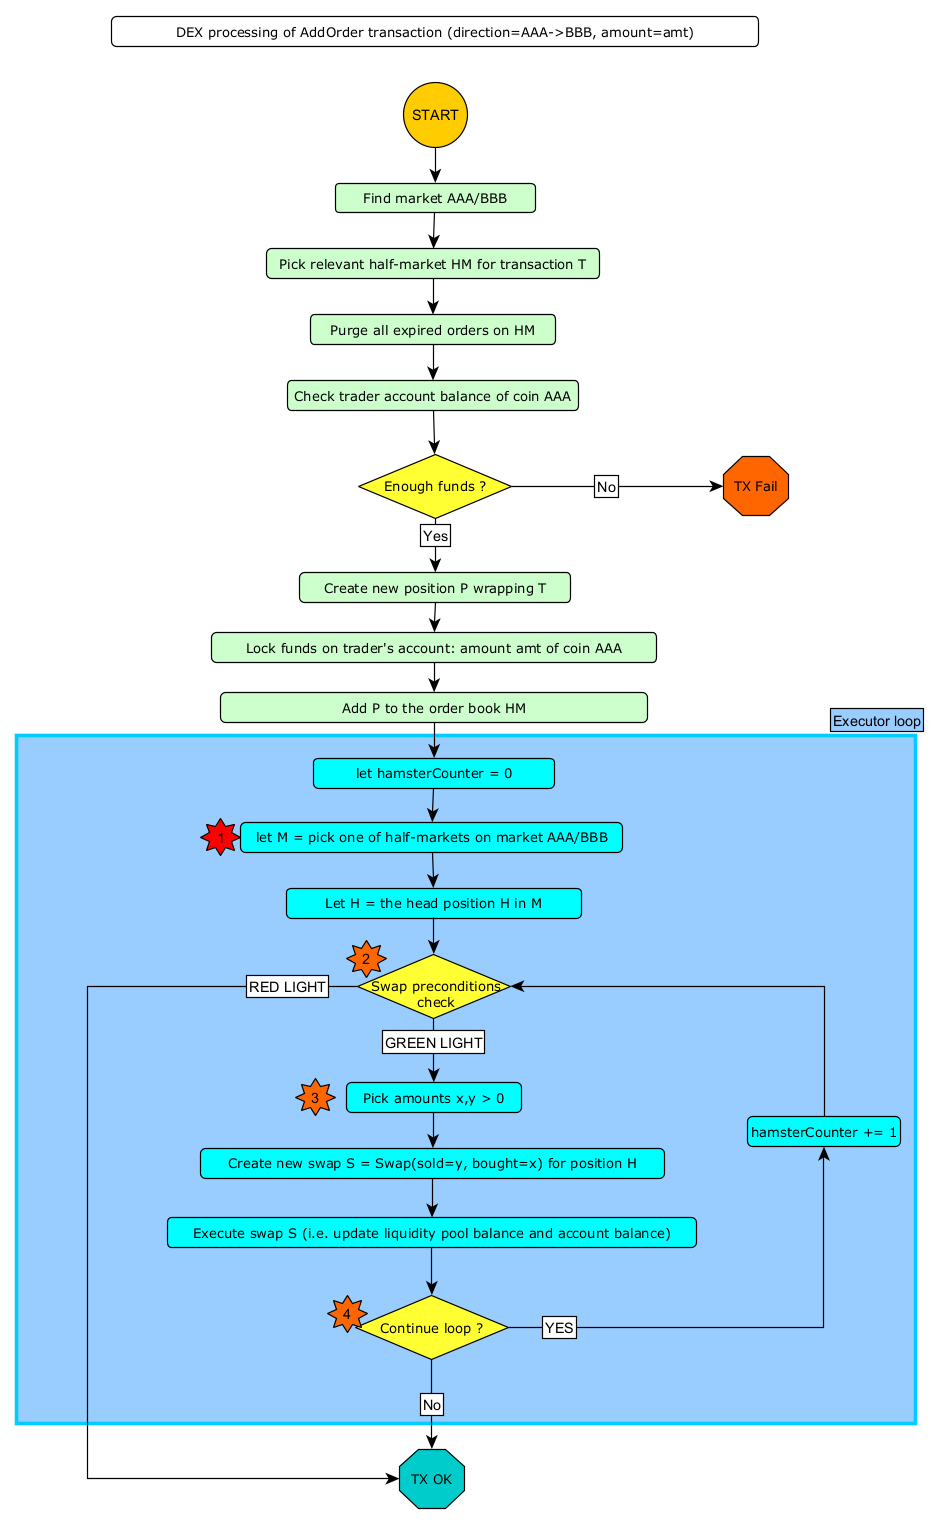
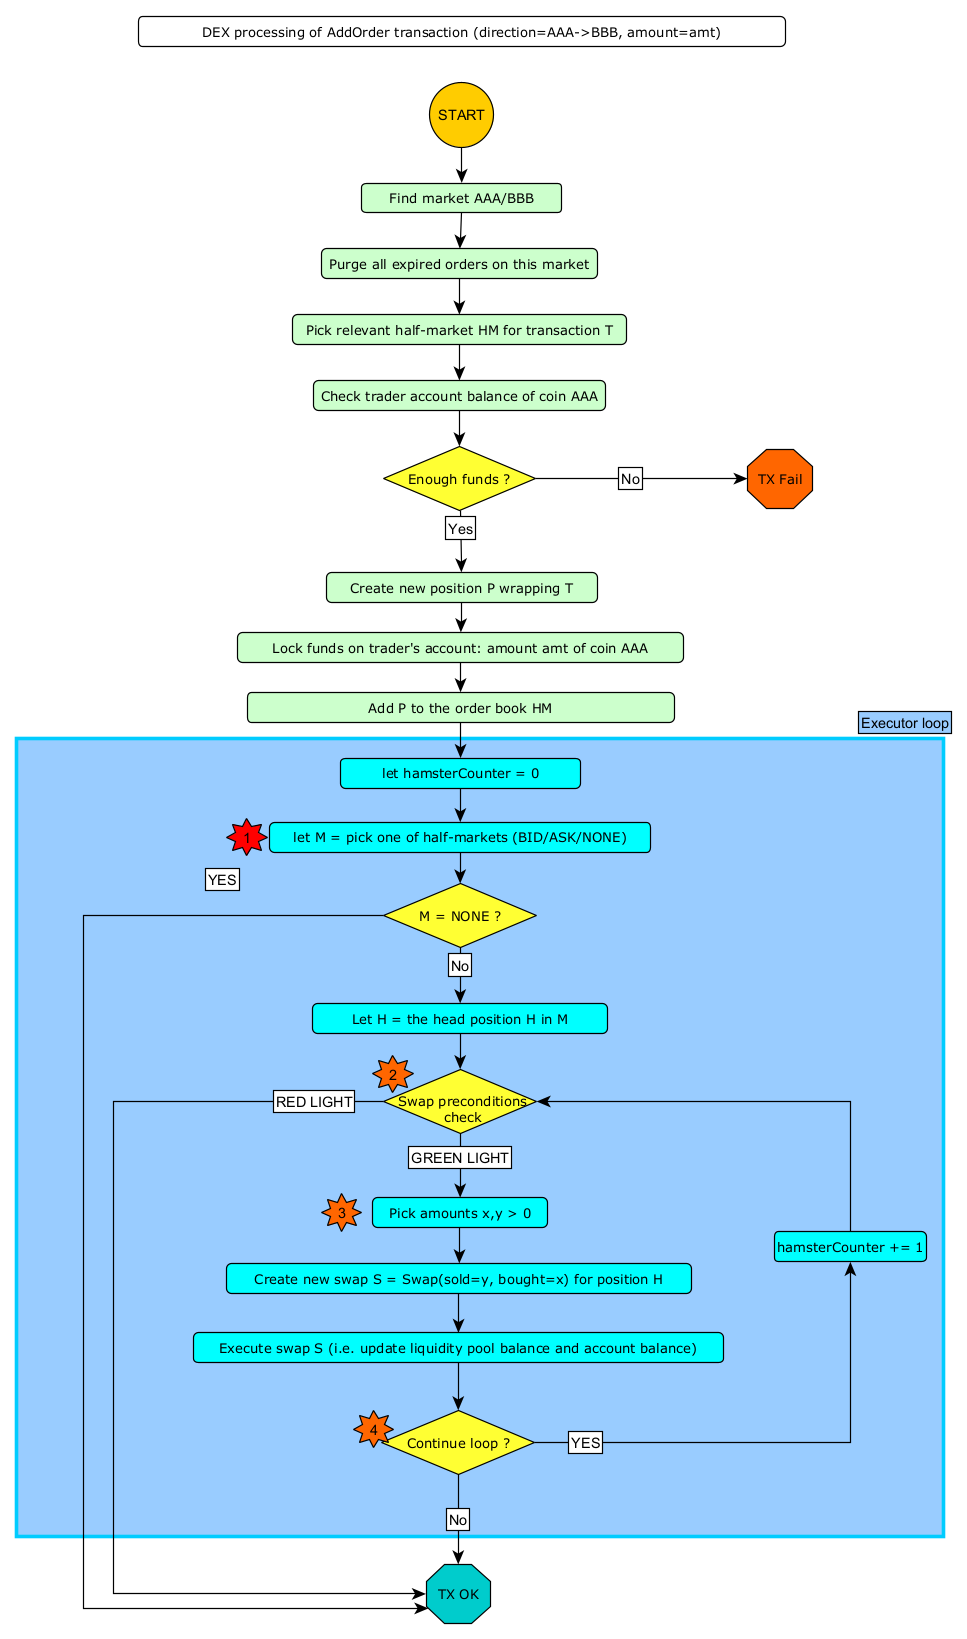
work in progress

Changed region(s): [[0.0, 0.0, 0.9883, 1.0], [0.7412, 0.2776, 0.8647, 0.3392], [0.6177, 0.2776, 0.6794, 0.3392]]

diff --git a/source/07-executors.rst b/source/07-executors.rst
@@ -159,7 +159,9 @@ We select the same half-market where ``pos`` belongs:
 
 .. code:: scala
 
-  val selectedHalfMarket = pos.halfMarket
+    private def limitBooksNextExecDecision(market: Market): Option[MarketSide] = {
+        return pos.normalizedMarketSide
+    }
 
 2: Swap preconditions
 ^^^^^^^^^^^^^^^^^^^^^
@@ -206,19 +208,15 @@ We select the same half-market where ``pos`` belongs:
 
 We terminate unconditionally. This means that the executor loop has always only one iteration.
 
-
 Variant 2: TURQUOISE executor
 -----------------------------
 
-This executor is based on an idea that we execute orders always using the limit price as declared in the order itself,
-as long as the AMM-price allows to do so without sponsoring the trader. There is no trading fee, instead the DEX
+This executor is based on the idea that we execute orders always using the limit price as declared in the order itself
+- as long as the AMM-price allows to do so without sponsoring the trader. There is no trading fee, instead the DEX
 makes money on the difference between AMM price vs limit price.
 
 The executor loop has fixed number of iterations - defined by "hamster constant". At every iteration, the half market
 selection is based on picking the one with bigger overhang.
-
-On top of that we take care about keeping the swap amounts about the integer rounding margin (provided as a parameter)
-so to avoid nasty corner cases caused by integer rounding.
 
 Math derivation
 ^^^^^^^^^^^^^^^
@@ -280,46 +278,45 @@ Solving this leads to:
 
   private var flipper: Boolean = false
 
-  private def limitBooksNextExecDecision(market: Market): Decision = {
+  private def limitBooksNextExecDecision(market: Market): Option[MarketSide] = {
     if (market.limitOrderBookAsks.isEmpty && market.limitOrderBookBids.isEmpty)
-      return Decision.NONE
+      return None
 
     if (market.limitOrderBookBids.isEmpty)
-      return Decision.ASK
+      return Some(MarketSide.Asks)
 
     if (market.limitOrderBookAsks.isEmpty)
-      return Decision.BID
+      return Some(MarketSide.Bids)
 
     val topBid: Fraction = market.limitOrderBookBids.head.normalizedLimitPrice
     val bottomAsk: Fraction = market.limitOrderBookAsks.head.normalizedLimitPrice
     val ammPrice: Fraction = market.currentPriceNormalized
 
     if (topBid <= ammPrice && ammPrice <= bottomAsk)
-      return Decision.NONE
+      return None
 
     if (bottomAsk < ammPrice && topBid <= ammPrice)
-      return Decision.ASK
+      return Some(MarketSide.Asks)
 
     if (topBid > ammPrice && bottomAsk >= ammPrice)
-      return Decision.BID
+      return Some(MarketSide.Bids)
 
     val bidOverhang = topBid - ammPrice
     val askOverHang = ammPrice - bottomAsk
 
     if (bidOverhang > askOverHang)
-      return Decision.BID
+      return Some(MarketSide.Bids)
 
     if (bidOverhang < askOverHang)
-      return Decision.ASK
+      return Some(MarketSide.Asks)
 
     //they are equal, so we pick one pointed by the flipper
     flipper = ! flipper
     flipper match {
-      case true => return Decision.BID
-      case false => return Decision.ASK
+      case true => return Some(MarketSide.Bids)
+      case false => return Some(MarketSide.Asks)
     }
   }
-
 
 2: Swap preconditions
 ^^^^^^^^^^^^^^^^^^^^^
@@ -336,23 +333,45 @@ Solving this leads to:
     val ammPrice: Fraction = market.currentPriceDirected(askCoin, bidCoin)
 
     if (ammPrice <= r)
-      return false
+      return RED_LIGHT
 
     val maxBidAmt: FPNumber = FPNumber((a * y - b * x) / (2 * x))
     val maxAmountOfBidCoinThatWillNotDrainAmmBelowMargin: FPNumber = (market.ammBalanceOf(askCoin) -  ammMinBalance) ** r.reciprocal
     val strikeBidAmt: FPNumber = FPNumber.min(FPNumber.min(limitHead.amount, maxBidAmt), maxAmountOfBidCoinThatWillNotDrainAmmBelowMargin)
     val strikeAskAmt: FPNumber = strikeBidAmt ** r
 
-    if (strikeBidAmt <= integerRoundingMargin || strikeAskAmt <= integerRoundingMargin)
-      if (limitHead.amount > integerRoundingMargin)
-        return false
+    if (strikeBidAmt > FPNumber.zero && strikeAskAmt > FPNumber.zero)
+      return GREEN_LIGHT
+    else
+      return RED_LIGHT
 
-    if (strikeBidAmt > FPNumber.zero && strikeAskAmt > FPNumber.zero) {
+3: Swap amounts
+^^^^^^^^^^^^^^^
+
+.. code:: scala
+
+    lazy val limitHead: Position = limitBook.head
+    val a: BigInt = halfMarketBA.poolBalance.pips
+    val b: BigInt = halfMarketAB.poolBalance.pips
+    val r: Fraction = limitHead.exchangeRate
+    val x: BigInt = r.numerator
+    val y: BigInt = r.denominator
+
+    val ammPrice: Fraction = market.currentPriceDirected(askCoin, bidCoin)
+
+    if (ammPrice <= r)
+      return RED_LIGHT
+
+    val maxBidAmt: FPNumber = FPNumber((a * y - b * x) / (2 * x))
+    val maxAmountOfBidCoinThatWillNotDrainAmmBelowMargin: FPNumber = (market.ammBalanceOf(askCoin) -  ammMinBalance) * r.reciprocal
+    val strikeBidAmt: FPNumber = FPNumber.min(FPNumber.min(limitHead.amount, maxBidAmt), maxAmountOfBidCoinThatWillNotDrainAmmBelowMargin)
+    val strikeAskAmt: FPNumber = strikeBidAmt * r
+
+    val y: FPNumber = FPNumber.min(limitHead.outstandingAmount, maxBidAmt)
+    val x: FPNumber = y * r
 
 
-
-
-3: Executor loop termination
+4: Executor loop termination
 ^^^^^^^^^^^^^^^^^^^^^^^^^^^^
 
 We terminate unconditionally. This means that the executor loop has always only one iteration.

diff --git a/source/04-model-data-types.rst b/source/04-model-data-types.rst
@@ -24,6 +24,157 @@ We follow the TLA+ spec in making arithmetic representation decisions:
  - fixed-point numbers are used for representing amounts of tokens (see ``FPNumber`` class)
  - fractions are used for representing prices (see ``Fraction`` class)
 
+Fixed-point arithmetic
+^^^^^^^^^^^^^^^^^^^^^^
+
+``FPNumber`` implements fixed-point arithmetic. The decimal precision (i.e. number of places after decimal point)
+is statically configured via constant ``io.onomy.commons.FIXED_POINT_ARITHMETIC_PRECISION: Int``.
+This class is tailored to represent "money" values, i.e. it works mostly like integers. There are some cases when
+rounding occurs (these places are marked below).
+
+The signature of ``FPNumber`` class is as follows:
+
+.. code:: scala
+
+case class FPNumber(pips: BigInt) extends Ordered[FPNumber] {
+
+  /** Sum of two numbers.*/
+  def +(amount: FPNumber): FPNumber
+
+  /** Difference of two numbers.*/
+  def -(amount: FPNumber): FPNumber
+
+  /** x ---> -x */
+  def negated: FPNumber
+
+  /** Returns -1 for negative values, 1 for positive values, 0 for zero.*/
+  def signum: Int
+
+  /**
+   * Shifts the decimal point given number of places (left or right).
+   * @param p number of decimal places (positive = shift right, negative = shift left)
+   */
+  def decimalShift(p: Int): FPNumber
+
+  /**
+   * Fixed-point multiplication.
+   * Caution: rounding can occur here.
+   */
+  def *(other: FPNumber): FPNumber
+
+  /**
+   * Fixed-point division.
+   * Caution: rounding can occur here.
+   */
+  def /(other: FPNumber): FPNumber
+
+  /** x ---> 1/x */
+  def reciprocal: FPNumber
+
+  /**
+  * Multiplication by a fraction.
+  * Caution: rounding can occur here.
+  */
+  def **(fraction: Fraction): FPNumber
+
+  /**
+   * Conversion to floating-point arithmetic.
+   * Caution: this is precision-losing operation.
+   */
+  def toDouble: Double
+
+  /**
+   * Conversion to Fraction.
+   * This is a precise conversion, as Fraction has unlimited precision.
+   */
+  def toFraction: Fraction
+
+  /** Rounding towards positive infinity.*/
+  def ceiling: BigInt
+
+  /** Rounding towards negative infinity. */
+  def floor: BigInt
+
+  /** Returns fractional part of the value, ignoring sign.*/
+  def unsignedFractionalPart: FPNumber
+
+  /**
+   * Rounding towards zero.
+   * This is just cutting away the fractional part of this value.
+   */
+  def roundTowardsZero: BigInt
+
+  /** Rounding away from zero.*/
+  def roundAwayFromZero: BigInt
+
+  /** Mathematical ordering.*/
+  override def compare(that: FPNumber): Int
+
+  /** Standard distance between numbers.*/
+  def distanceTo(that: FPNumber): FPNumber
+}
+
+Additionally, there are some class-level functions associated with ``FPNumber``:
+
+.. code:: scala
+
+  private def power(n: Long, k: Int): BigInt = {
+    val b: BigInt = BigInt(n)
+    (1 to k).map(x => b).product
+  }
+
+  val SCALING_FACTOR: BigInt = power(10, FIXED_POINT_ARITHMETIC_PRECISION)
+  val SCALING_FACTOR_BIG_DECIMAL: BigDecimal = BigDecimal(SCALING_FACTOR)
+  val SCALING_FACTOR_DOUBLE: Double = SCALING_FACTOR.toDouble
+
+  val fractionalPartPaddingString: String = "0" * FIXED_POINT_ARITHMETIC_PRECISION
+
+  val zero: FPNumber = FPNumber(0)
+  val half: FPNumber = FPNumber(SCALING_FACTOR / 2)
+  val one: FPNumber = FPNumber(SCALING_FACTOR)
+
+
+  def parse(s: String): FPNumber = fromBigDecimal(BigDecimal(s))
+
+  /**
+   * Conversion Long ---> CoinAmount.
+   * For example, when precision is set to 5:
+   * fromLong(123).toString == "123.00000"
+   */
+  def fromLong(n: Long): FPNumber = FPNumber(n * SCALING_FACTOR)
+
+  def fromBigDecimal(x: BigDecimal): FPNumber = new FPNumber((x * SCALING_FACTOR_BIG_DECIMAL).toBigInt)
+
+  /**
+   * Conversion Double ---> CoinAmount.
+   */
+  def fromDouble(a: Double): FPNumber = FPNumber((a * SCALING_FACTOR_DOUBLE).round)
+
+  def fromDoubleRoundingDown(a: Double): FPNumber = FPNumber((a * SCALING_FACTOR_DOUBLE).floor.toLong)
+
+  def fromDoubleRoundingUp(a: Double): FPNumber = FPNumber((a * SCALING_FACTOR_DOUBLE).ceil.toLong)
+
+  def fromFraction(f: Fraction): FPNumber = FPNumber(f.numerator) / FPNumber(f.denominator)
+
+  def min(a: FPNumber, b: FPNumber): FPNumber = if (a < b) a else b
+
+  def max(a: FPNumber, b: FPNumber): FPNumber = if (a > b) a else b
+
+  def abs(a: FPNumber): FPNumber = if (a >= FPNumber.zero) a else a.negated
+
+  /**
+   * Smallest value that could be represented with FPNumber, given the configured arithmetic precision
+   */
+  val quantum: FPNumber = FPNumber.one.decimalShift(- FIXED_POINT_ARITHMETIC_PRECISION)
+
+
+
+
+Fractions
+^^^^^^^^^
+
+
+
 Time
 ----
 
